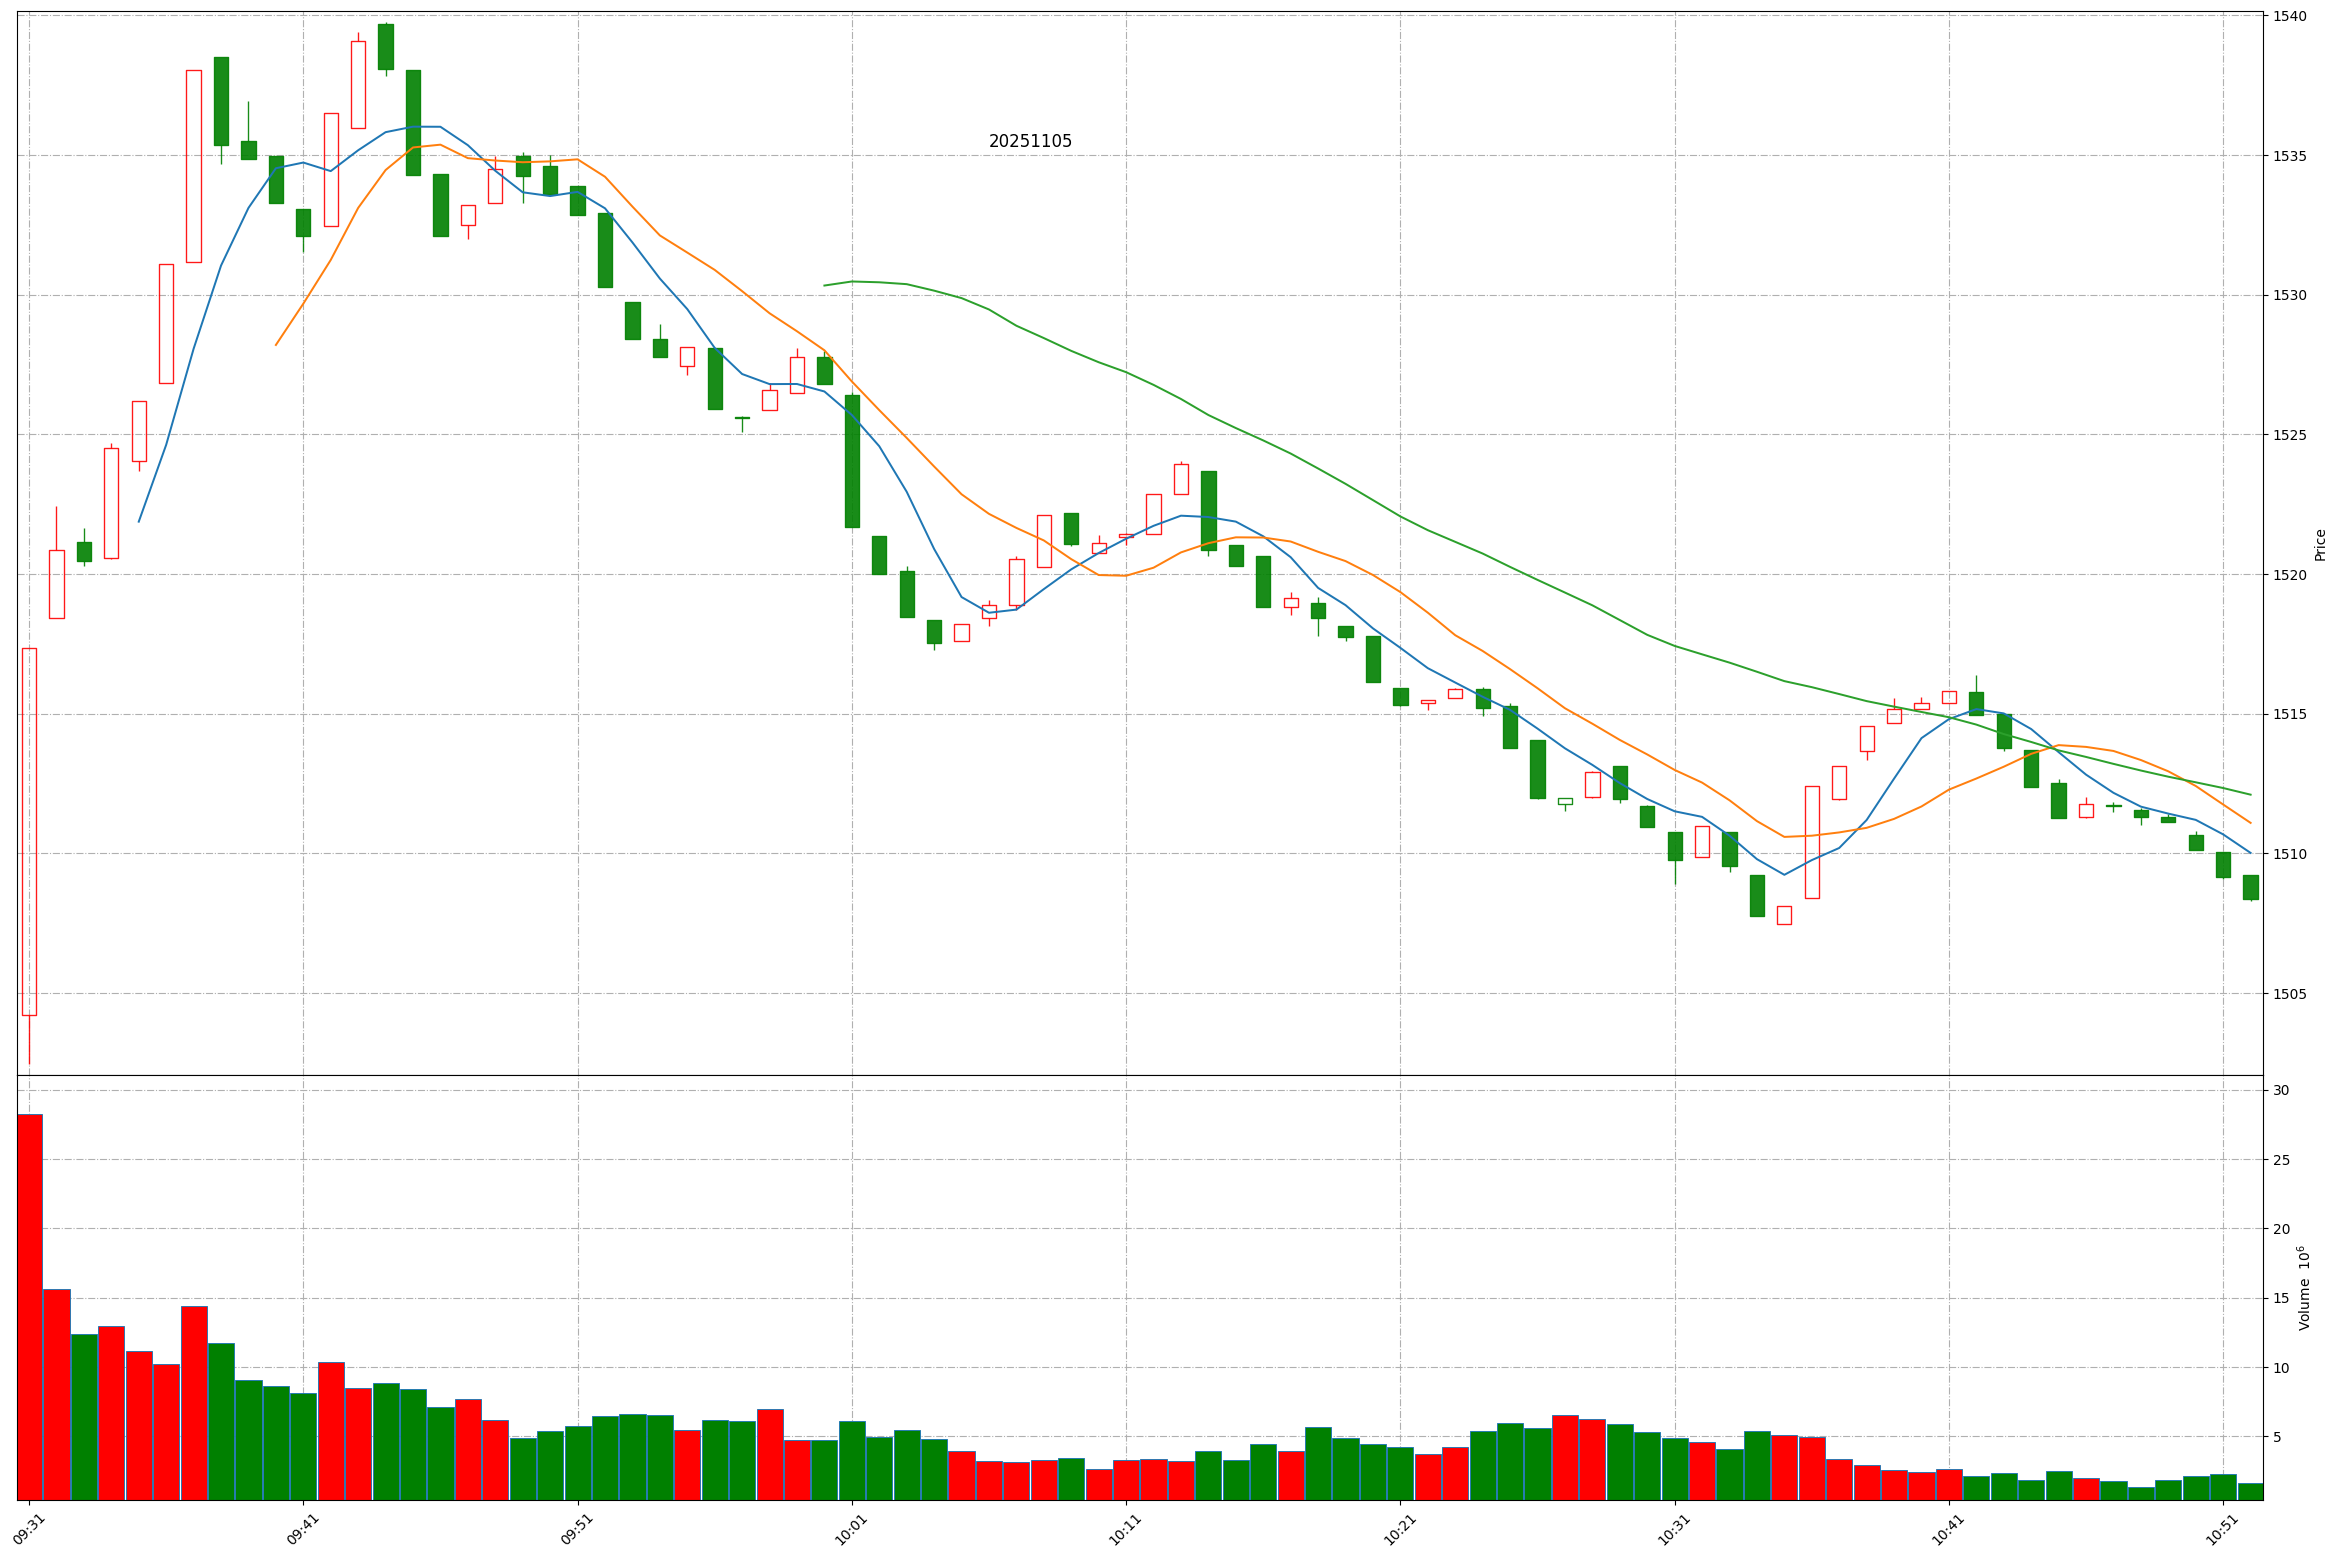
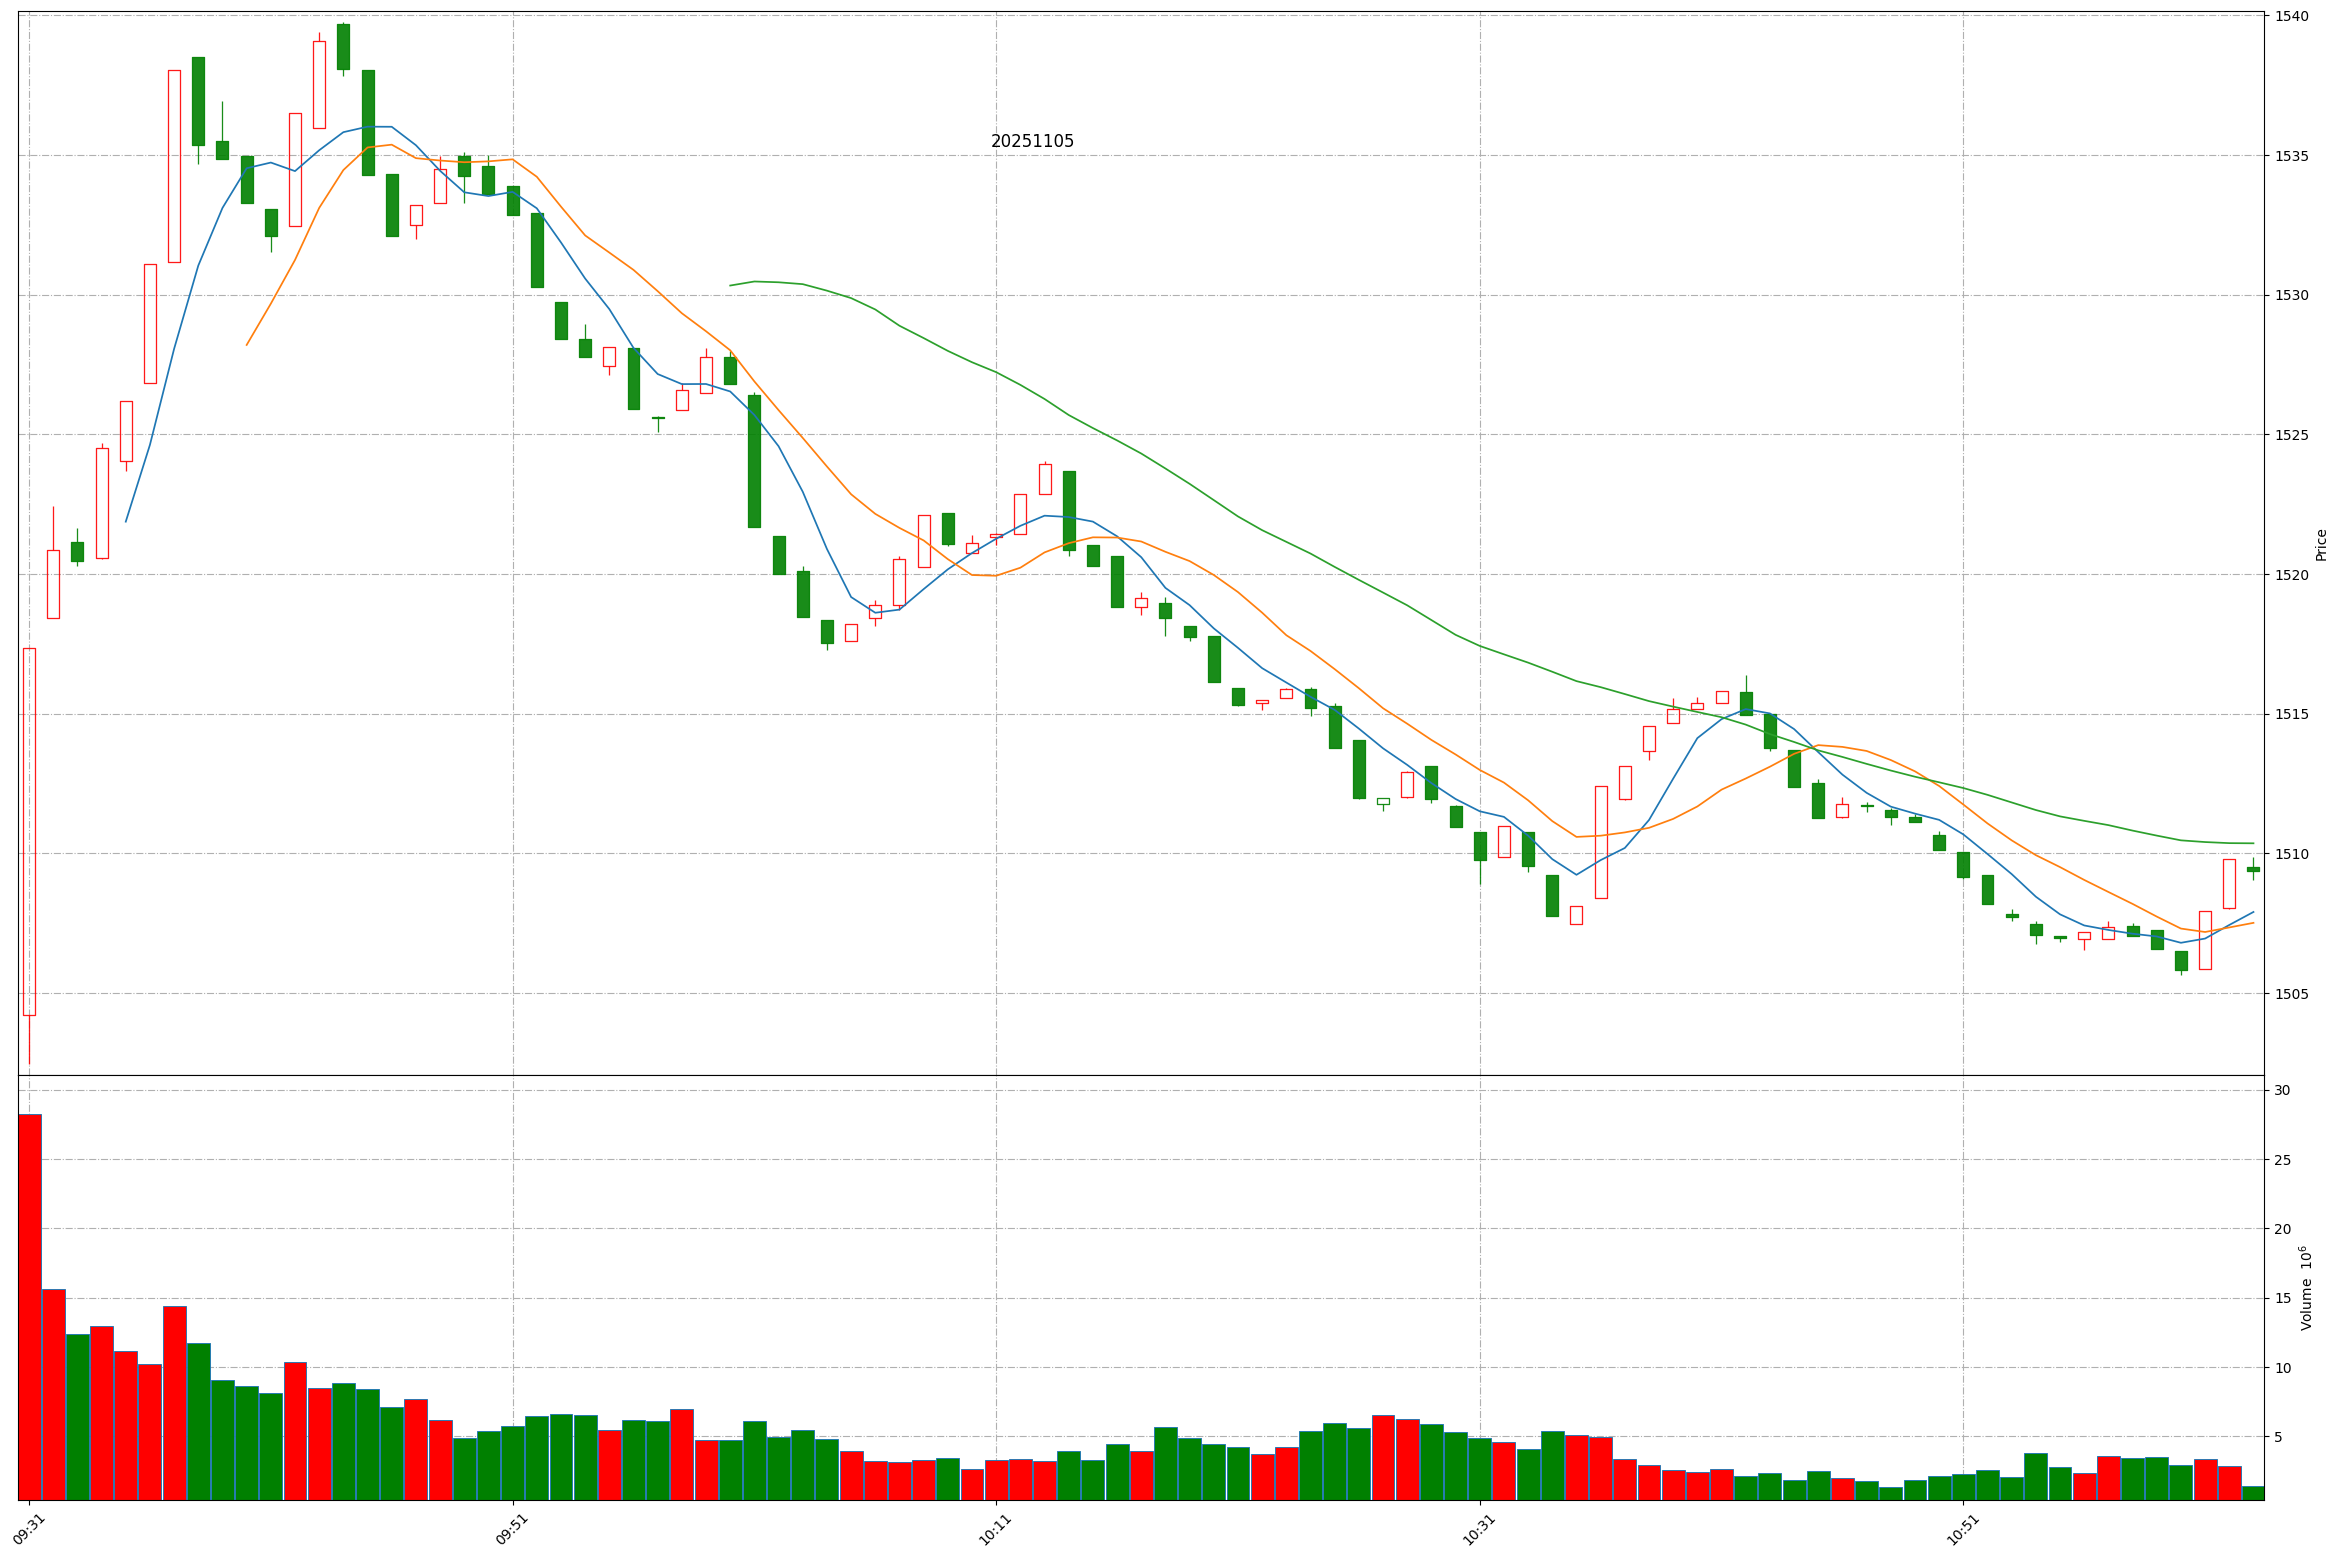
Github action update at 2025-11-05 11:02:47.

diff --git a/README.md b/README.md
@@ -1,11 +1,11 @@
 
 # Daily-A-share-market-quotes 每日 A 股指数（5min 更新）- 20251105
 
-### 上证指数 20251105 10:51
+### 上证指数 20251105 11:2
 ![](./fig/2025/11/20251105-sh000001.png)
 
-### 深证成指 20251105 10:51
+### 深证成指 20251105 11:2
 ![](./fig/2025/11/20251105-sz399001.png)
 
-### 北证50 20251105 10:51
+### 北证50 20251105 11:2
 ![](./fig/2025/11/20251105-bj899050.png)
